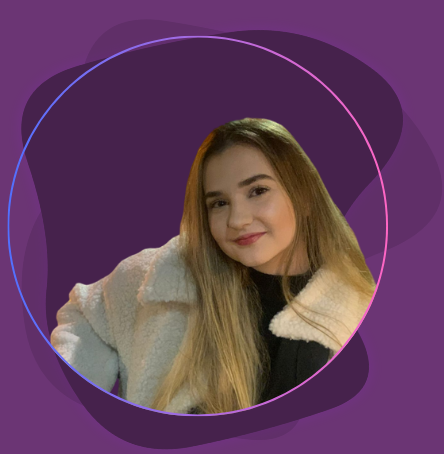
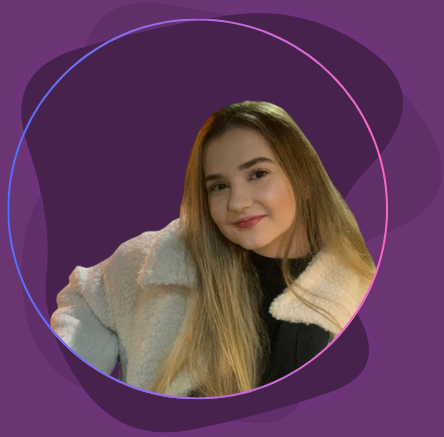
✨ Adicionando animação com css a imagem

diff --git a/index.html b/index.html
@@ -17,7 +17,7 @@
           <li><a>Projetos</a></li>
           <li><a>Sobre</a></li>
         </ul>
-        <a class="contato">Contato</a>
+        <a class="btn-contato">Contato</a>
       </nav>
     </header>
 
@@ -35,6 +35,7 @@
         </div>
         <div>
           <img
+            class="minha-foto"
             src="assets/foto-principal-3.png"
             alt="Minha foto de perfil, sou uma mulher jovem, 
             com cabelos loiros e pele clara, estou sorrindo para 
@@ -46,17 +47,15 @@
 
       <section class="tecnologias">
         <p class="section-titulo">Tecnologias</p>
-        <p class="section-texto">
-          Abaixo algumas tecnologias que eu utilizo:
-        </p>
+        <p class="section-texto">Abaixo algumas tecnologias que eu utilizo:</p>
         <div class="imgs-tecnologias">
+          <img src="assets/icons8-wordpress-48.png" />
           <img src="assets/icons8-firebase-48.png" />
           <img src="assets/icons8-html-5-48.png" />
           <img src="assets/icons8-javascript-48.png" />
           <img src="assets/icons8-react-48.png" />
           <img src="assets/icons8-redux-48.png" />
           <img src="assets/icons8-typescript-48.png" />
-          <img src="assets/icons8-wordpress-48.png" />
         </div>
       </section>
 
@@ -85,7 +84,5 @@
         </p>
       </section>
     </main>
-
-    <footer></footer>
   </body>
 </html>

diff --git a/style.css b/style.css
@@ -69,7 +69,7 @@ nav {
   font-size: 0.8rem;
 }
 
-.contato {
+.btn-contato {
   color: #6d2177;
   font-weight: 700;
   background-color: #ffffff;
@@ -86,10 +86,15 @@ nav {
   cursor: pointer;
 }
 
-.contato:hover {
+.btn-contato:hover {
   box-shadow: 0px 0px 8px #ffffffc9;
   transform: scale(1.03);
   transition: 5ms;
+}
+
+section {
+  margin: auto;
+  padding: 1.5rem 10rem;
 }
 
 .apresentacao {
@@ -98,8 +103,7 @@ nav {
   justify-content: space-between;
   align-items: center;
 
-  margin: auto;
-  padding: 1.5rem 10rem;
+  padding-bottom: 3rem;
 
   background: #6b3574;
 }
@@ -121,6 +125,20 @@ nav {
   font-family: Outfit;
   font-size: 1.2rem;
   padding-bottom: 0.5rem;
+}
+
+.minha-foto {
+  position: relative;
+  animation: flutuar 2s ease-in-out infinite alternate;
+}
+
+@keyframes flutuar {
+  0% {
+    top: 0;
+  }
+  100% {
+    top: 30px;
+  }
 }
 
 .tecnologias {
@@ -147,11 +165,6 @@ nav {
 .imgs-tecnologias {
   display: flex;
   justify-content: space-evenly;
-  padding: 1.5rem 4rem;
-}
-
-
-
-footer{
-  background: #6d2177;
+  align-items: center;
+  padding-top: 2rem;
 }
